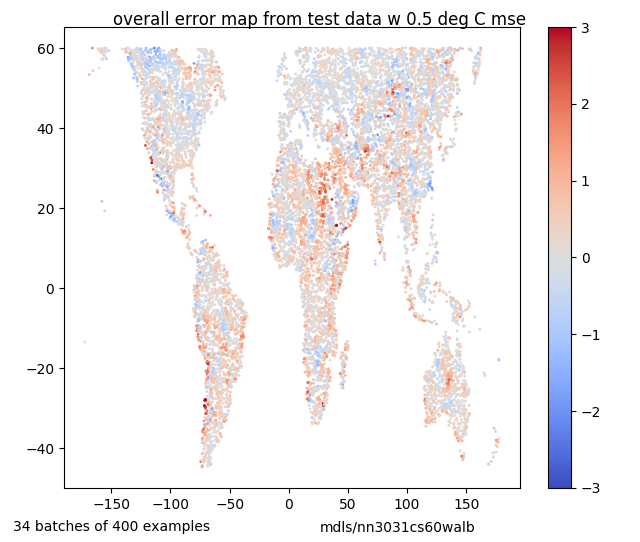
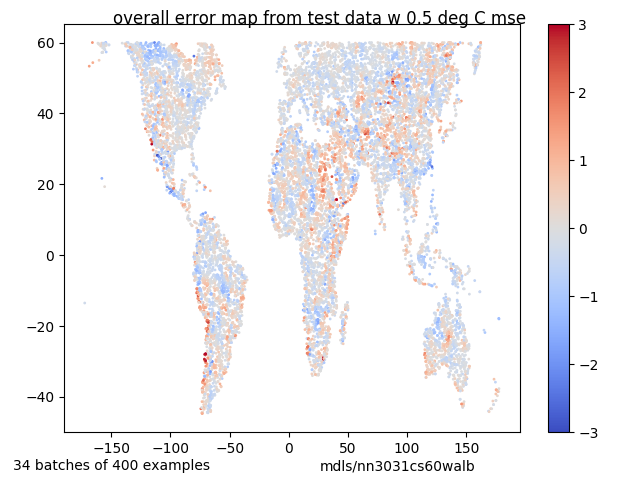
fixed sens chan index

diff --git a/wc_test.py b/wc_test.py
@@ -23,11 +23,13 @@ this code is awkward due to need to handle models with different channel maps
 copyright 2019 Nelson 'Buck' Smith
 
 """
-southPoleTest = True
+southPoleTest = False
+
+wc_radCon = 86.4 # kJm-2/day > watts m-2
 target = 'wc_v2test'
 file_ct = len(os.listdir(target))
 if southPoleTest: file_ct = 1;
-mdl_path = 'mdls/nn5051cs72xlatlon'
+mdl_path = 'mdls/nn3031cs60walb'
 if True:
   with open(mdl_path +'/params.json', 'r') as fi:
     params = json.load(fi)
@@ -112,7 +114,7 @@ mm_errs = [];
 for mcx in range(1):
 
   for tx in range(file_ct):
-    pst()
+
     if southPoleTest:
       ins, trus, rsqs, wc_trus, rn_trus = wcb.sPole_batch(400, True)
     else:  
@@ -186,8 +188,8 @@ for mcx in range(1):
     def wiggle_power(wig):
       # add to global solar srad as watts and wc 12 month and monthly in their wacky units
       feed[rmdl.xin][:,:,gs_radx] = feed[rmdl.xin][:,:,gs_radx] + wig
-      feed[rmdl.xin][:,:,wc_radx] = feed[rmdl.xin][:,:,wc_radx] +  (wig*75.0)
-      feed[rmdl.xin][:,:,wc_start] = feed[rmdl.xin][:,:,wc_start] + (wig*75.0)
+      feed[rmdl.xin][:,:,wc_radx] = feed[rmdl.xin][:,:,wc_radx] +  (wig*wc_radCon)
+      feed[rmdl.xin][:,:,wc_start] = feed[rmdl.xin][:,:,wc_start] + (wig*wc_radCon)
 
     def wiggle_prep(factr):
       feed[rmdl.xin][:,:,7] = feed[rmdl.xin][:,:,7] * factr
@@ -248,10 +250,12 @@ def tm_xyz(xch,ych,tm, zch=None):
     return tm[:,xix], tm[:,yix], tm[:,zix]
   else:
     return tm[:,xix], tm[:,yix]
-                                
+
+  
+exx, wye =tm_xyz('meta_dTdP', 'meta_dTdP', test_map)
 print('test map dataset shape, max and min sensitivty, count negative')
-print(test_map.shape, test_map[:,34].max(), test_map[:,34].min(), (test_map[:,34] < 0.0).sum())
-sen_histo = np.histogram(test_map[:,34], bins=20)
+print(test_map.shape, exx.max(), exx.min(), (exx < 0.0).sum())
+sen_histo = np.histogram(exx, bins=20)
 print('histo')
 print(zip(sen_histo[0], sen_histo[1][0:-1]))
 
